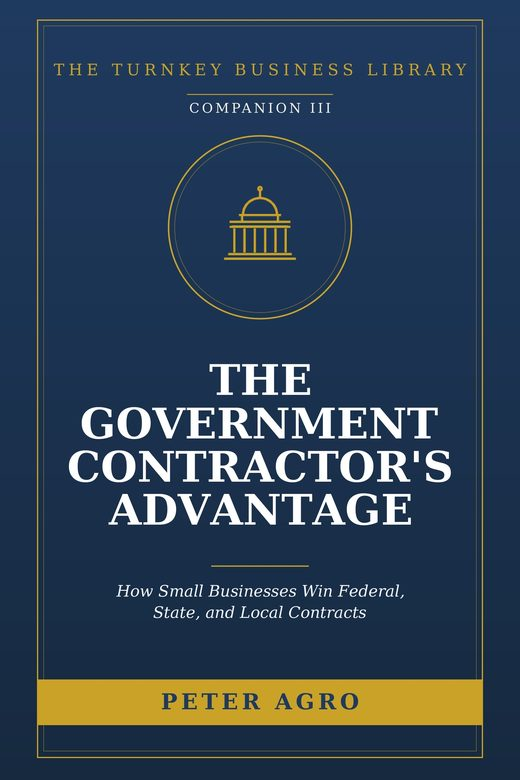
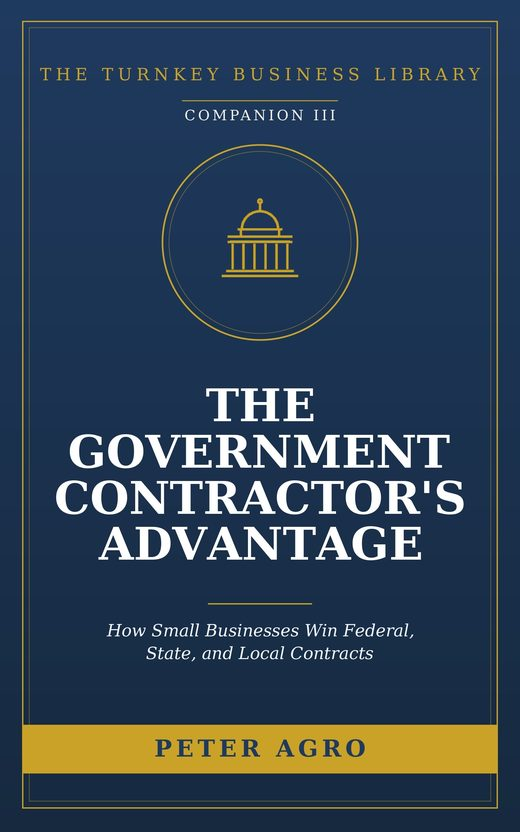
Add files via upload

diff --git a/index.html b/index.html
@@ -246,7 +246,7 @@
 
         <article class="book" id="government">
           <a href="https://www.amazon.com/dp/B0HL6TFHRD?tag=142014332030-20" rel="noopener">
-            <img src="government.jpg" alt="Cover of The Government Contractor&rsquo;s Advantage" loading="lazy" width="520" height="780">
+            <img src="government.jpg" alt="Cover of The Government Contractor&rsquo;s Advantage" loading="lazy" width="520" height="832">
             <p class="book-vol">Companion III</p>
             <p class="book-title">The Government Contractor&rsquo;s Advantage</p>
           </a>
@@ -255,7 +255,7 @@
 
         <article class="book" id="sellers-advantage">
           <a href="https://www.amazon.com/dp/B0HBPVKZ6C?tag=142014332030-20" rel="noopener">
-            <img src="sellers.jpg" alt="Cover of The Seller&rsquo;s Advantage" loading="lazy" width="520" height="780">
+            <img src="sellers.jpg" alt="Cover of The Seller&rsquo;s Advantage" loading="lazy" width="520" height="832">
             <p class="book-vol">Companion IV</p>
             <p class="book-title">The Seller&rsquo;s Advantage</p>
           </a>
